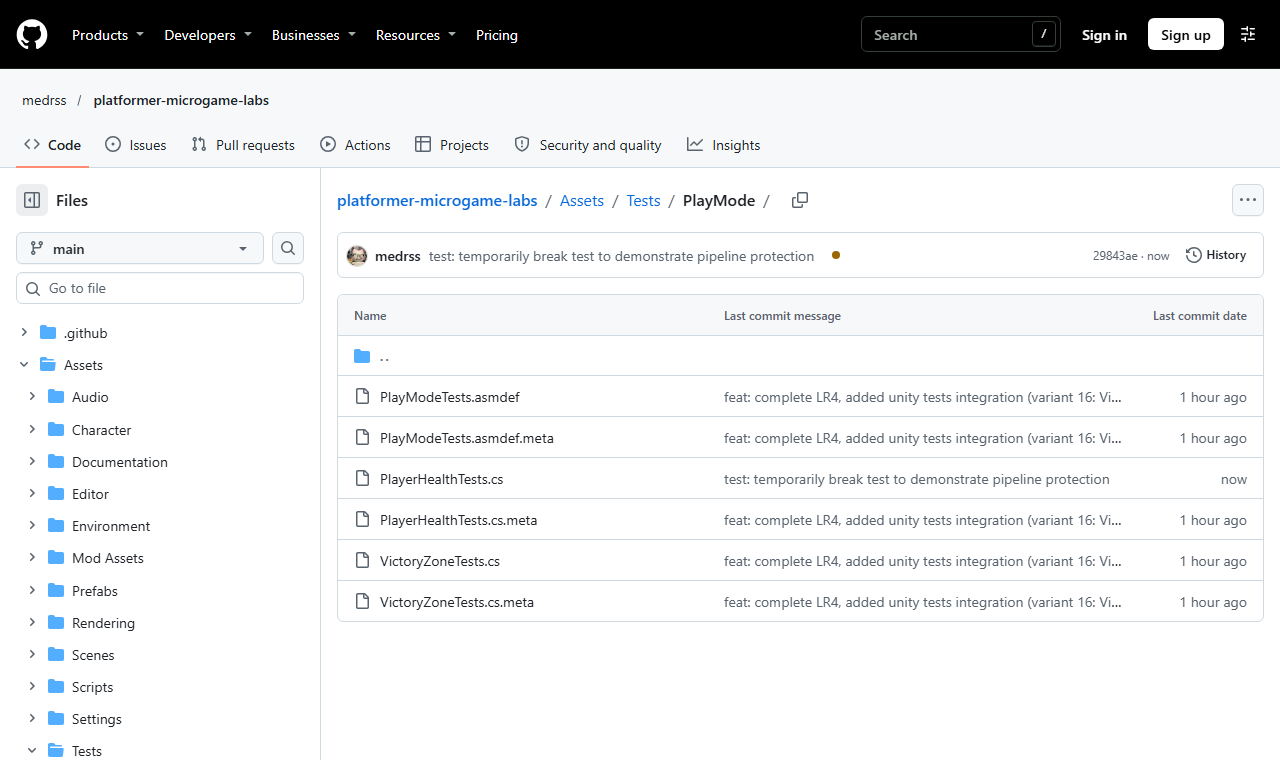
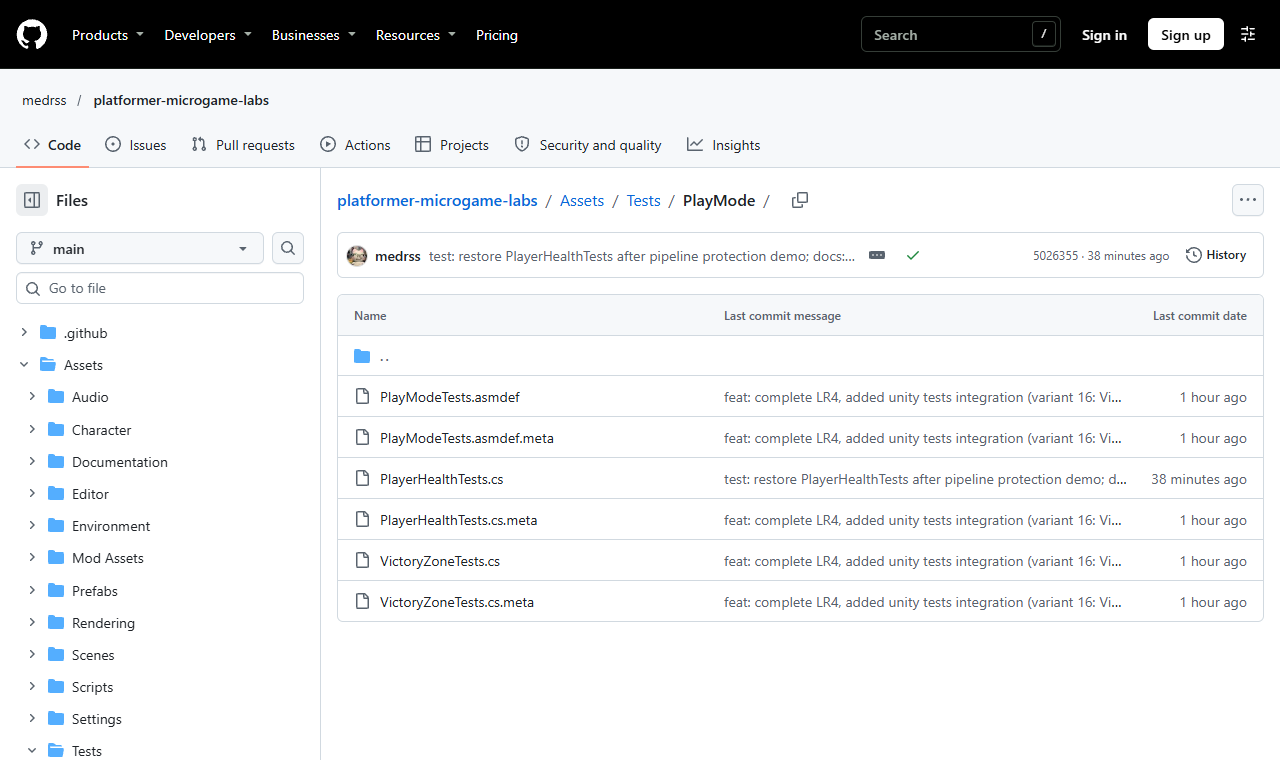
docs: LR5 report and screenshots

diff --git a/LR5.md b/LR5.md
@@ -1,0 +1,113 @@
+# Лабораторная работа №5: Автоматическая компиляция WebGL-игры в облаке и деплой на GitHub Pages
+
+**Студентка:** Карелина Мария Дмитриевна
+
+**Группа:** 23-СТ
+
+## Цель работы
+
+Настроить сквозной пайплайн, который после успешных тестов компилирует реальный WebGL-билд игры в облаке, публикует его на GitHub Pages и собирает Docker-образ с живой игрой вместо файлов-заглушек.
+
+## 1. Подготовка Unity 6 к деплою на GitHub Pages
+
+В `Player Settings → WebGL → Publishing Settings` формат сжатия оставлен **Gzip**, включена галочка **Decompression Fallback**. GitHub Pages не отправляет заголовок `Content-Encoding: gzip` для предсжатых файлов, поэтому распаковку выполняет встроенный в билд JS-распаковщик Unity.
+
+Проверка значений в `ProjectSettings/ProjectSettings.asset`:
+
+```
+$ grep -n "webGLCompressionFormat\|webGLDecompressionFallback" ProjectSettings/ProjectSettings.asset
+631:  webGLCompressionFormat: 1
+635:  webGLDecompressionFallback: 1
+```
+
+> В Unity 6 значения перечисления `WebGLCompressionFormat`: `0 — Brotli`, `1 — Gzip`, `2 — Disabled`, поэтому для Gzip в файле стоит `1`.
+
+## 2. Модернизация пайплайна
+
+В `.github/workflows/main.yml` добавлены задачи:
+
+* **`build_game`** — запускается после `run_tests`. В контейнере `unityci/editor` (экшен `game-ci/unity-builder@v4`) активирует лицензию Unity и вызывает метод **`BuildManager.BuildWebGL`** из ЛР №1 (`unityVersion: 6000.5.10f1`). Папка `Library` кэшируется. Готовая папка `Builds/WebGL` загружается артефактом **`WebGL-Build`**.
+* **`build_docker_image`** — теперь зависит от `build_game` и вместо заглушек (`touch`) скачивает артефакт `WebGL-Build` в `Builds/WebGL`, собирая образ Nginx с настоящей игрой.
+* **`deploy_to_pages`** — скачивает артефакт `WebGL-Build` и публикует его в служебную ветку **`gh-pages`** экшеном `JamesIves/github-pages-deploy-action@v4`.
+
+Итоговая цепочка задач:
+
+```
+sanity_check → run_tests → build_game → build_docker_image (ghcr.io/medrss/platformer-game)
+                         │            → deploy_to_pages   (ветка gh-pages → GitHub Pages)
+                         → mirror_repo
+```
+
+## 3. Отправка и запуск в облаке
+
+Изменения выполнены в ветке `LR5` и объединены с `main`:
+
+```
+git commit -m "feat: complete LR5, integrated real cloud unity build and pages deploy"
+git push origin main
+```
+
+## 4. Результат облачного прогона
+
+Первый полный прогон занял **29 минут** (из них `build_game` — 24,5 минуты: скачивание образа Unity 6 и первичный импорт ассетов). Все шесть задач зелёные, `build_game` запустился только после успешных `run_tests` (4/4 теста).
+
+![Actions — сквозной пайплайн ЛР5](docs/screenshots/lr5_actions_green.png)
+
+В аннотации `build_game` выводится состав настоящего билда (**23 МБ**):
+
+```
+WebGL build (23M): WebGL.data.unityweb  WebGL.framework.js.unityweb  WebGL.loader.js  WebGL.wasm.unityweb
+```
+
+> При включённом Decompression Fallback Unity сохраняет сжатые Gzip файлы с расширением `.unityweb` вместо `.gz` — распаковщик внутри `WebGL.loader.js` сам определяет формат и распаковывает их в браузере.
+
+## 5. Ветка gh-pages
+
+Задача `deploy_to_pages` выгрузила в ветку `gh-pages` файл `index.html` и папки `Build`, `StreamingAssets`, `TemplateData`:
+
+![Ветка gh-pages](docs/screenshots/lr5_gh_pages_branch.png)
+
+![Файлы билда в gh-pages/Build](docs/screenshots/lr5_gh_pages_build.png)
+
+<!-- LR5_PAGES -->
+
+## 6. Docker-образ с настоящей игрой
+
+Образ `ghcr.io/medrss/platformer-game:latest` теперь содержит реальный билд вместо заглушек:
+
+```
+$ docker run -d -p 8089:80 --name lr5_game ghcr.io/medrss/platformer-game:latest
+$ docker exec lr5_game ls -la /usr/share/nginx/html/Build
+-rw-r--r--  8787145  WebGL.data.unityweb
+-rw-r--r--    87292  WebGL.framework.js.unityweb
+-rw-r--r--    47867  WebGL.loader.js
+-rw-r--r-- 14374451  WebGL.wasm.unityweb
+```
+
+Игра, запущенная из образа по адресу `http://localhost:8089`:
+
+![Игра из Docker-образа](docs/screenshots/lr5_docker_game.png)
+
+## Ответы на контрольные вопросы
+
+**1. Почему папка `Builds/WebGL` закрыта `.gitignore` и как файлы попадают в `build_docker_image` и `deploy_to_pages`?**
+Билд — это результат компиляции (десятки мегабайт бинарных файлов), который заново создаётся из исходников при каждой сборке; хранить его в Git бессмысленно и раздувает историю. Задача `build_game` загружает папку артефактом `WebGL-Build` (`upload-artifact`), а `build_docker_image` и `deploy_to_pages` скачивают его (`download-artifact`) в `Builds/WebGL`.
+
+**2. Зачем `build_game` указывать `needs: run_tests` и что будет, если тесты упадут?**
+Чтобы компилировать и публиковать только проверенный код. Если тесты упадут, `build_game` не запустится, а вместе с ним пропускаются зависящие от него `build_docker_image` и `deploy_to_pages` — сломанная версия не попадёт ни в GHCR, ни на сайт.
+
+**3. Какую роль выполняет `BuildManager.BuildWebGL` и почему результат виден пайплайну?**
+Это C#-метод из ЛР №1, который берёт сцены из Build Settings, вызывает `BuildPipeline.BuildPlayer` для WebGL в папку `Builds/WebGL` и пишет в лог итог сборки. В batch-режиме он завершает редактор через `EditorApplication.Exit(0/1)`, поэтому код возврата передаётся контейнеру, и при ошибке компиляции шаг пайплайна становится красным.
+
+**4. Почему GitHub Pages требует Decompression Fallback, а Docker-образ с Nginx обходится без неё?**
+GitHub Pages — статический хостинг без настройки заголовков: он не отправляет `Content-Encoding: gzip`, и браузер не распаковывает файлы сам. Decompression Fallback встраивает в билд JS-распаковщик. В нашем Nginx заголовки настраиваются в `nginx.conf` (ЛР №3), и распаковку выполняет сам браузер.
+
+**5. Чем отличается доставка через GitHub Pages и через Docker-образ в GHCR, и зачем нужны теги `latest` и `github.sha`?**
+GitHub Pages — бесплатный публичный хостинг статических файлов «для проверки», привязанный к репозиторию. Docker-образ — переносимый артефакт (веб-сервер + игра), который запускается одной командой на любом сервере с Docker. `latest` указывает на последнюю сборку, `github.sha` неизменяемо привязывает образ к коммиту и позволяет откатиться на конкретную версию.
+
+**6. Почему при успешной `deploy_to_pages` сайт может отдавать 404 и как это исправить?**
+Задача только выкладывает файлы в ветку `gh-pages`, но не включает хостинг. Нужно один раз включить Pages: `Settings → Pages → Source: Deploy from a branch → Branch: gh-pages, / (root) → Save`. После этого каждый новый билд обновляет сайт автоматически.
+
+## Вывод
+
+Пайплайн стал сквозным: после успешных тестов игра компилируется в облаке методом из ЛР №1, настоящий билд передаётся между задачами через артефакты, упаковывается в Docker-образ с Nginx и публикуется на GitHub Pages.
